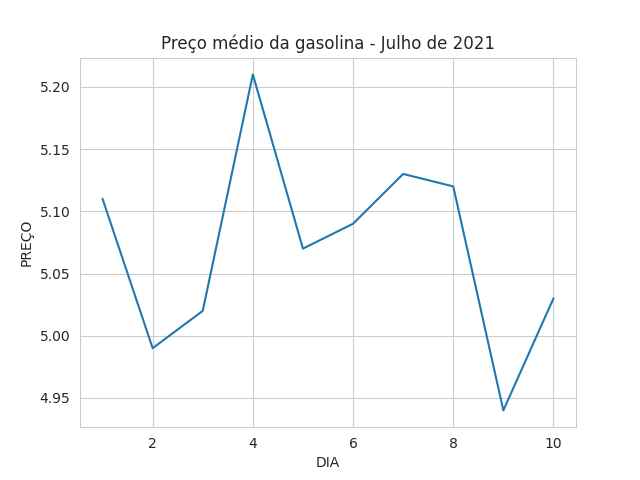
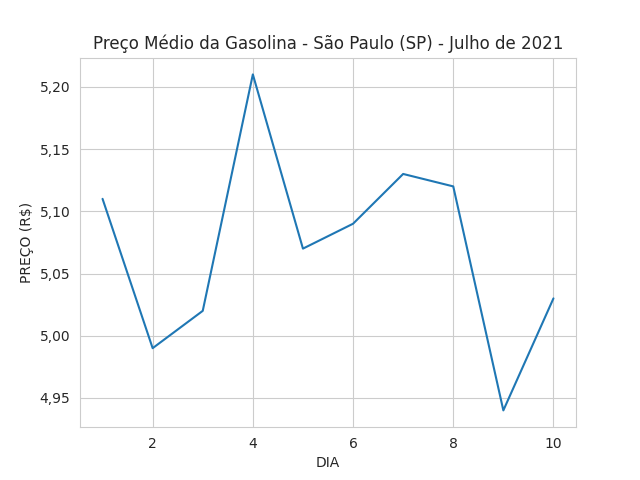
Graph fix: Values in R$; City in the title

Changed region(s): [[0.125, 0.0625, 0.875, 0.125], [0.0312, 0.4375, 0.0625, 0.5938]]

diff --git a/gasolina.py b/gasolina.py
@@ -2,6 +2,7 @@
 
 import seaborn as sns
 import pandas as pd
+import matplotlib.ticker as ticker  # formatação do gráfico
 
 # Geração do dataframe
 gasolina_df = pd.read_csv('gasolina.csv', sep=',')
@@ -9,9 +10,13 @@ gasolina_df = pd.read_csv('gasolina.csv', sep=',')
 # Utiliza grades no fundo do gráfico
 with sns.axes_style('whitegrid'):
 
-# configuração dos dados no gráfico
+  # configuração dos eixos do gráfico
   grafico = sns.lineplot(data=gasolina_df, x="dia", y="venda")
-  grafico.set(title='Preço médio da gasolina - Julho de 2021', xlabel='DIA', ylabel='PREÇO');
+
+  # formata o eixo Y para exibir vírgulas no lugar de pontos
+  grafico.yaxis.set_major_formatter(ticker.FuncFormatter(lambda x, _: f'{x:,.2f}'.replace(",", "X").replace(".", ",").replace("X", ".")))
+
+  grafico.set(title='Preço Médio da Gasolina - São Paulo (SP) - Julho de 2021', xlabel='DIA', ylabel='PREÇO (R$)');
 
 # salvar o gráfico no arquivo gasolina.png
-grafico.get_figure().savefig(f"gasolina.png")
+grafico.get_figure().savefig(f"gasolina.png") 
